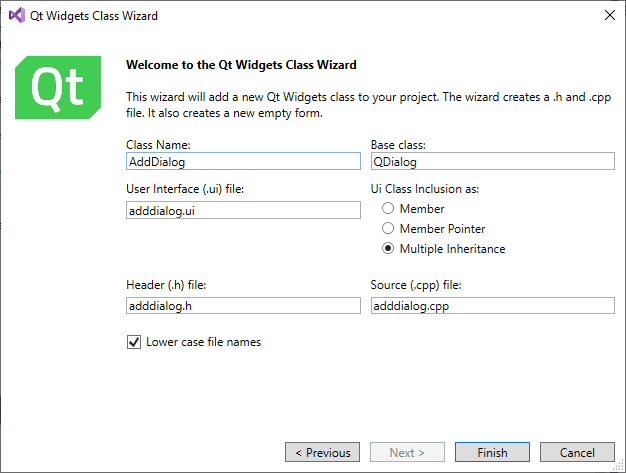
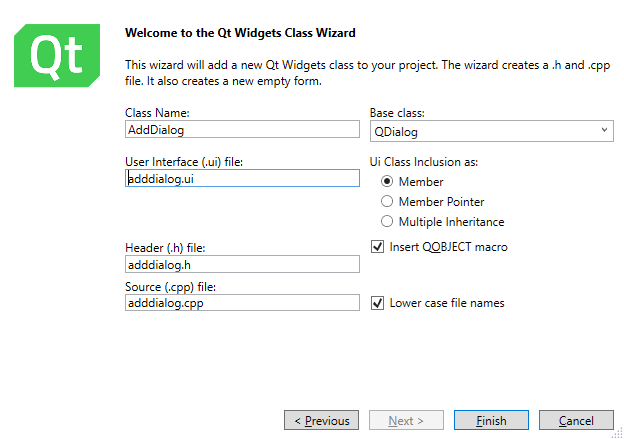
Update docs after recent QtVsTools release
* Add missing project file templates
* Update the qtvstools-qt-widget-class-wizard.png
* Add image file showing the new translation file dialog
* Translation files are now added from a different location

Add a dedicated menu item inside the QtVsTools extension menu
to directly open the Getting Started page on doc.qt.io/qtvstools

diff --git a/QtVsTools.Package/Package/QtMainMenu.cs b/QtVsTools.Package/Package/QtMainMenu.cs
@@ -71,6 +71,7 @@ namespace QtVsTools
         {
             QtVersionId = 0x0500,
             ViewQtHelpId = 0x0501,
+            ViewGettingStartedId = 0x0503,
             LaunchDesignerId = 0x0100,
             LaunchLinguistId = 0x0101,
             OpenProFileId = 0x0102,
@@ -115,6 +116,9 @@ namespace QtVsTools
             switch ((CommandId)command.CommandID.ID) {
             case CommandId.ViewQtHelpId:
                 VsShellUtilities.OpenSystemBrowser("https://www.qt.io/developers");
+                break;
+            case CommandId.ViewGettingStartedId:
+                VsShellUtilities.OpenSystemBrowser("https://doc.qt.io/qtvstools/qtvstools-getting-started.html");
                 break;
             case CommandId.LaunchDesignerId:
                 QtVsToolsPackage.Instance.QtDesigner.Start(hideWindow: false);
@@ -173,6 +177,7 @@ namespace QtVsTools
 
             switch ((CommandId)command.CommandID.ID) {
             case CommandId.ViewQtHelpId:
+            case CommandId.ViewGettingStartedId:
                 command.Visible = command.Enabled = true;
                 break;
             case CommandId.QtVersionId:
